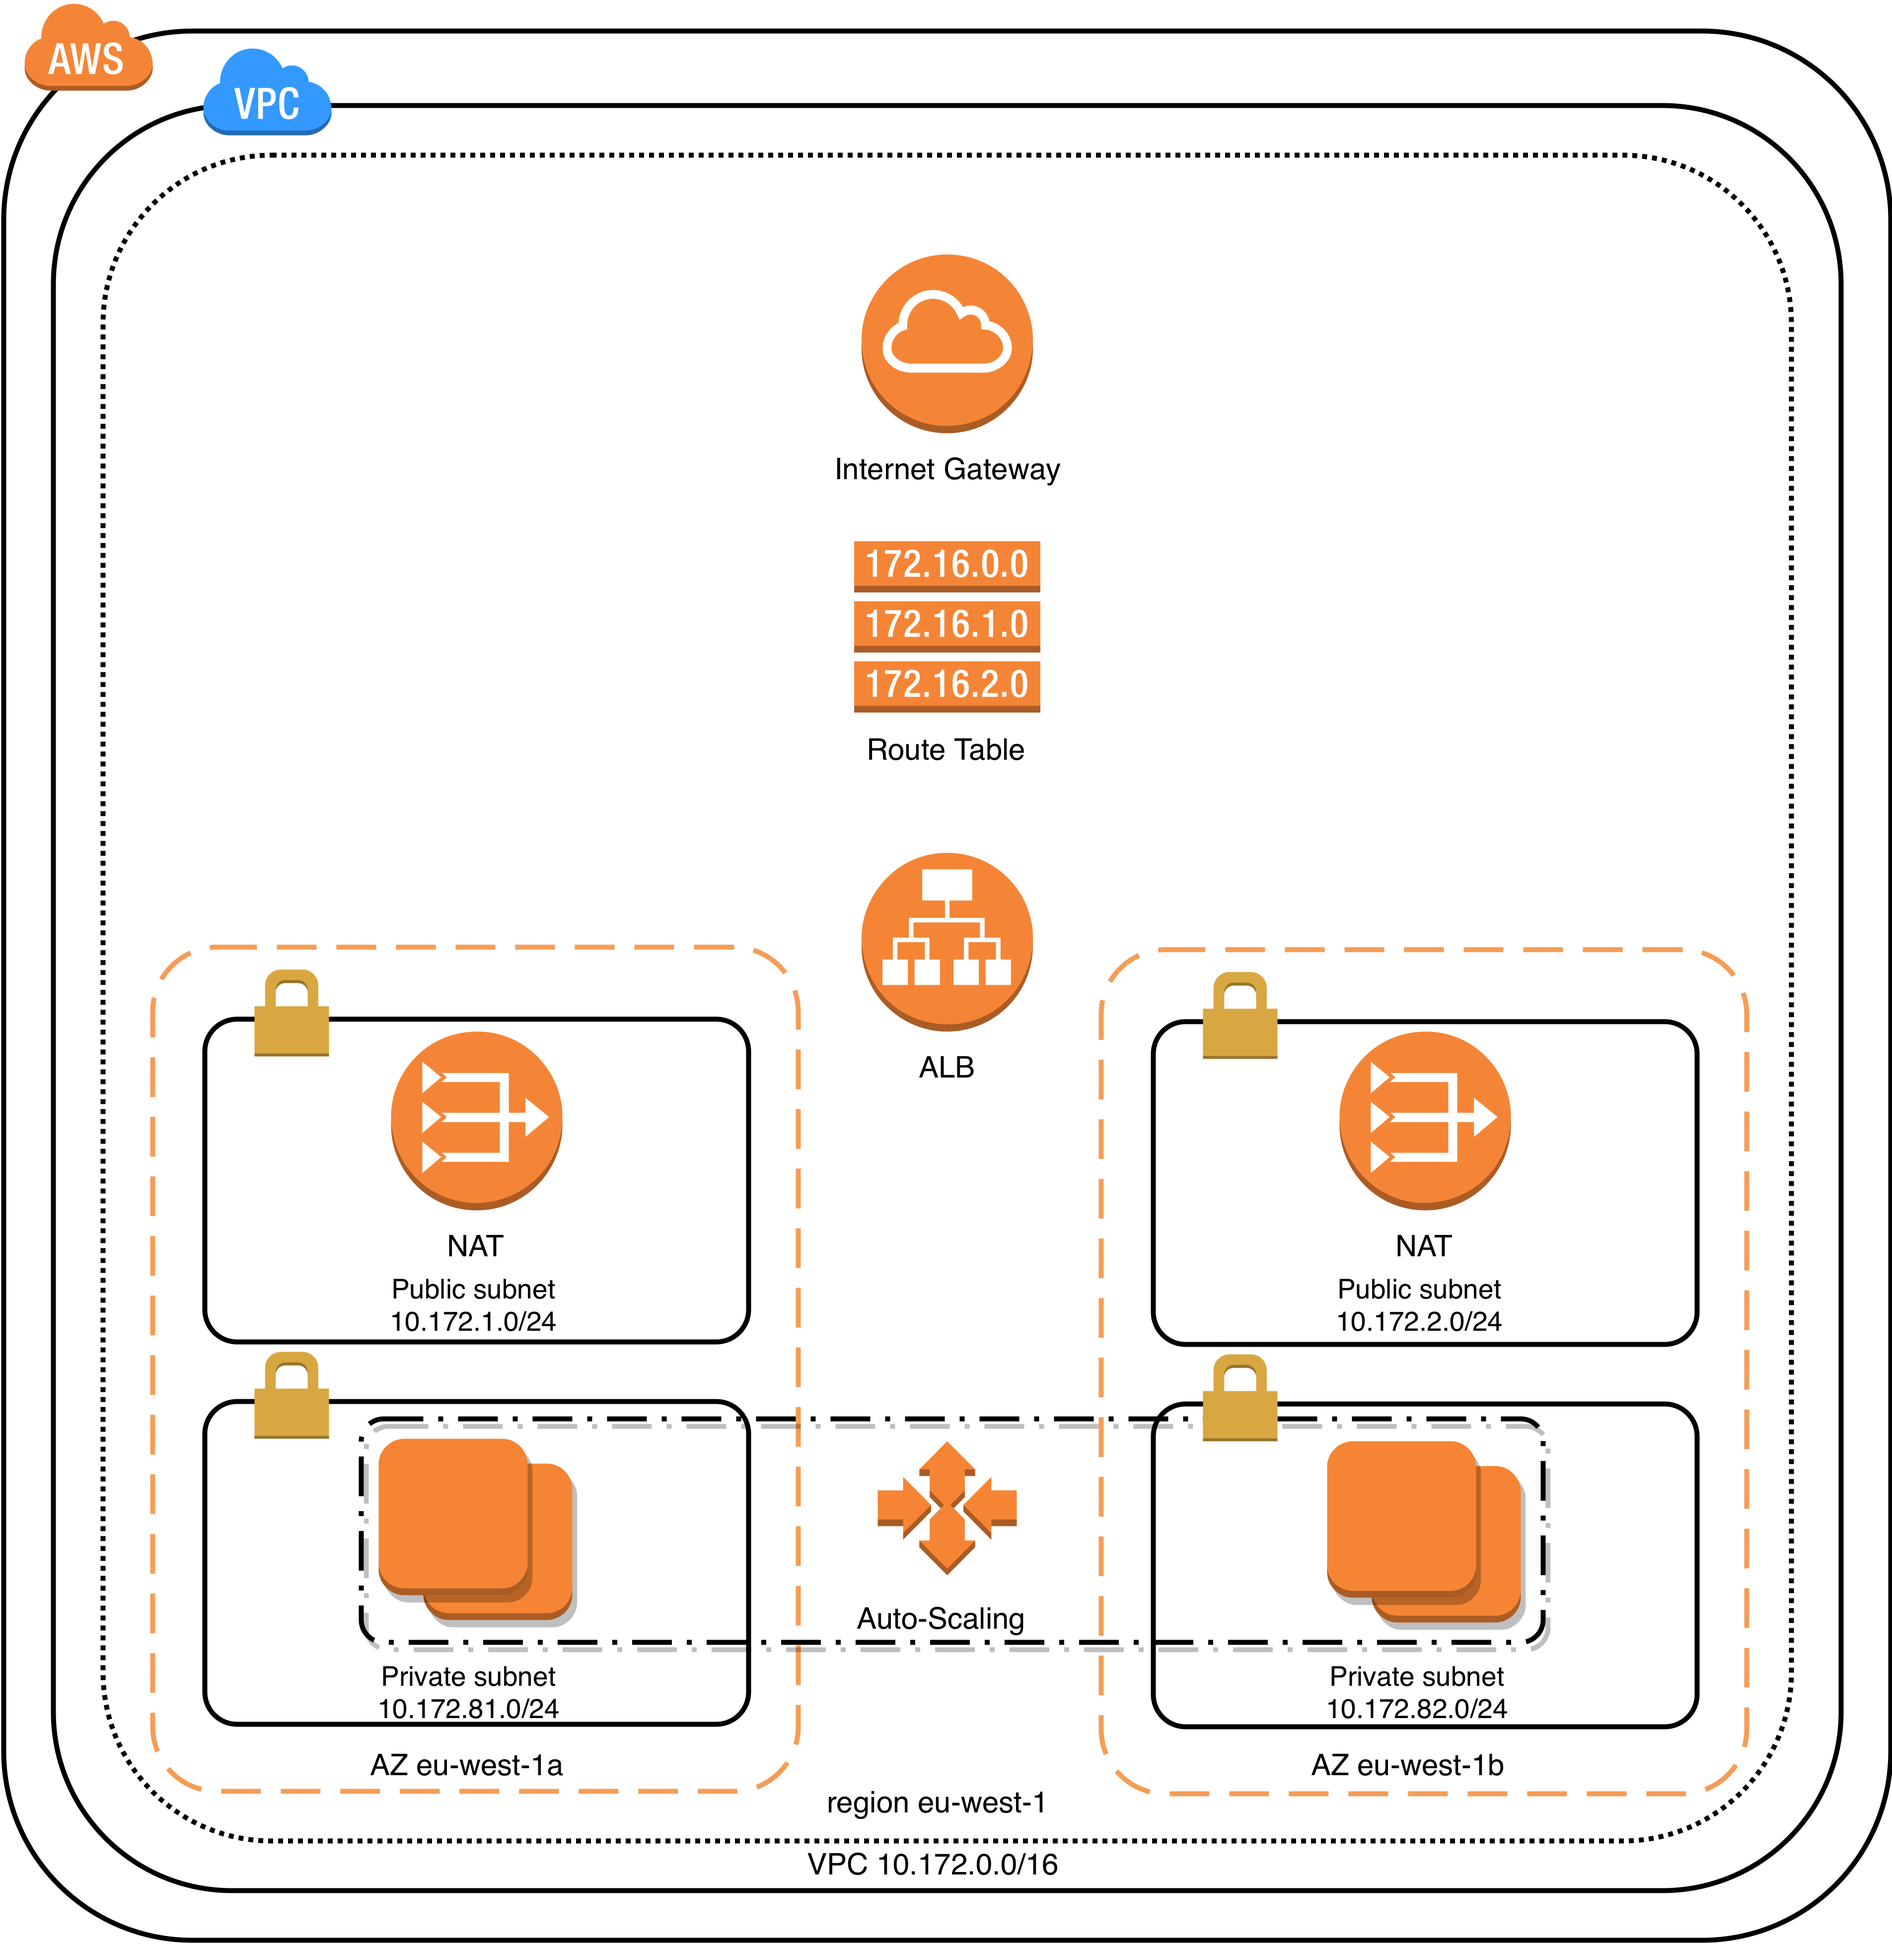
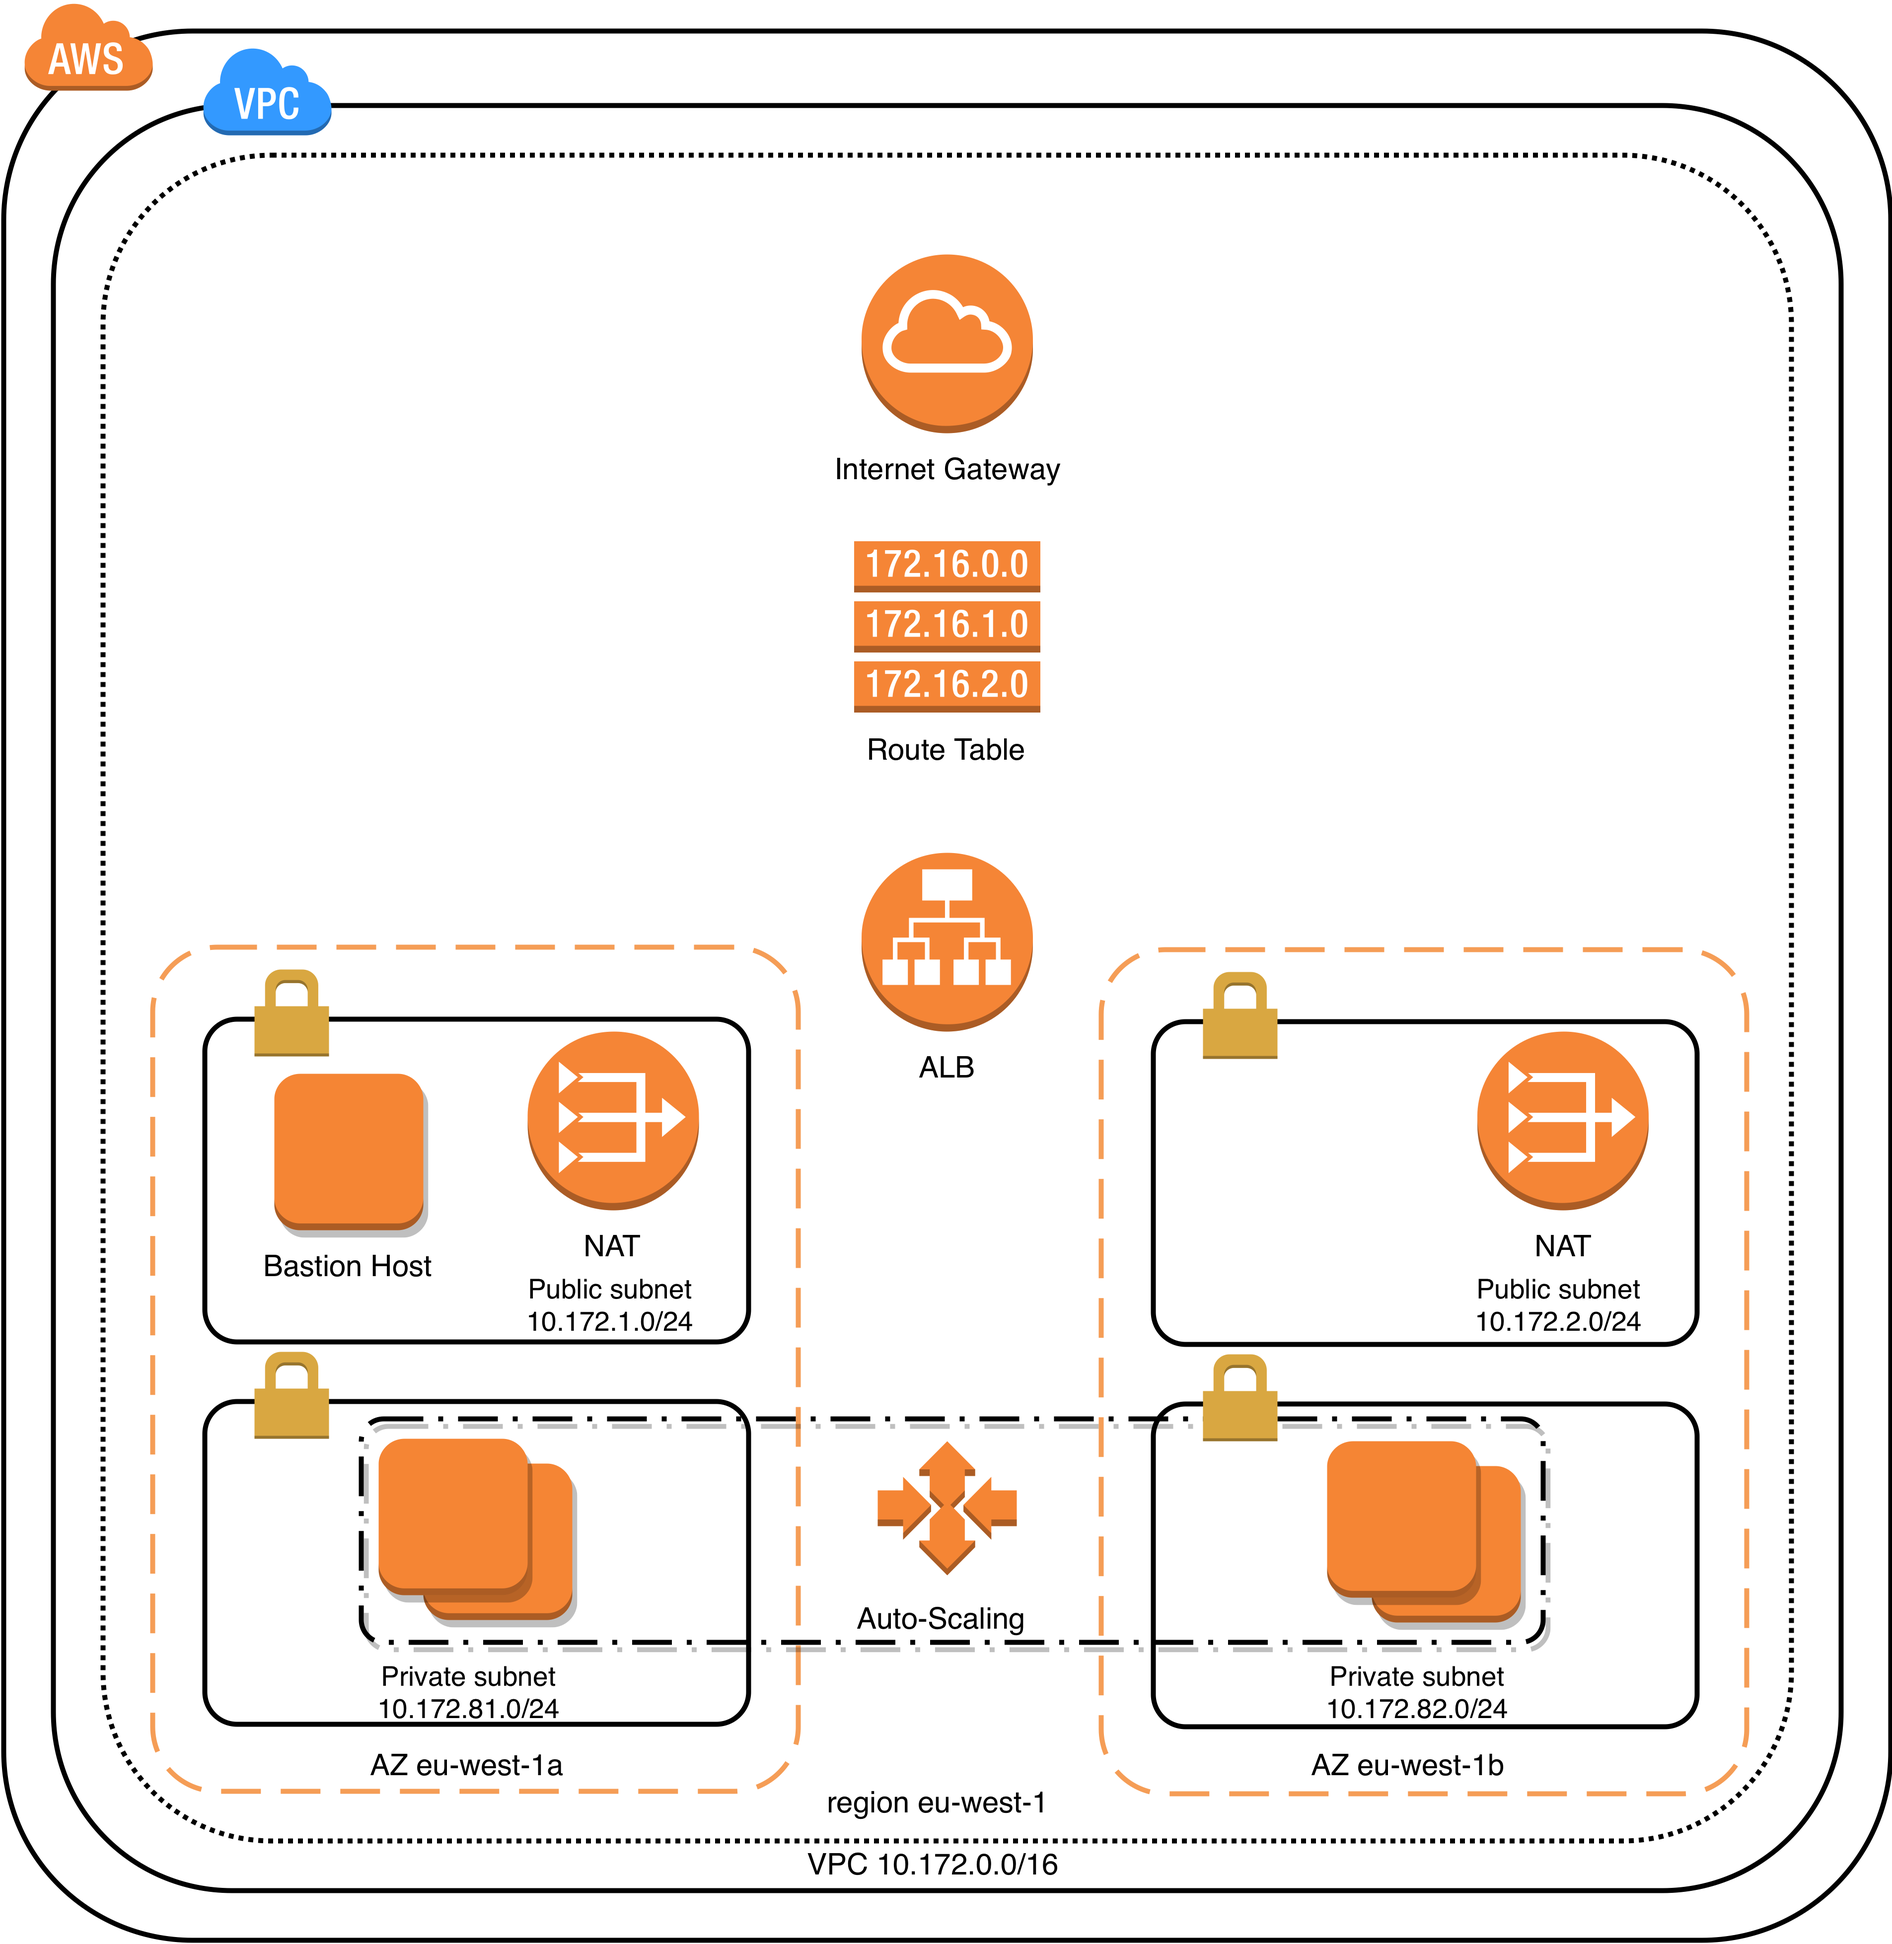
added testing the access

Changed region(s): [[0.1249, 0.5298, 0.3748, 0.6856], [0.6871, 0.5298, 0.8745, 0.6856]]

diff --git a/README.md b/README.md
@@ -173,11 +173,40 @@ Apply complete! Resources: 32 added, 0 changed, 0 destroyed.
 
 Outputs:
 
-ALB DNS Name = default-1781065290.eu-west-1.elb.amazonaws.com
-Bastion DNS Name = ec2-34-247-176-235.eu-west-1.compute.amazonaws.com
+ALB DNS Name = default-397873677.eu-west-1.elb.amazonaws.com
+Bastion DNS Name = ec2-34-247-38-196.eu-west-1.compute.amazonaws.com
+```
 
+**Test web access**
 
-# destroy the environment
+![Website](img/website.png)
+
+**Access the instances**
+
+```
+# ssh to bastion host
+❯ ssh -i aws_fake_key ubuntu@ec2-34-247-38-196.eu-west-1.compute.amazonaws.com
+Are you sure you want to continue connecting (yes/no)? yes
+ubuntu@ip-10-172-1-73:~$
+
+# ssh to the instance
+❯ ssh -A ubuntu@ec2-34-247-38-196.eu-west-1.compute.amazonaws.com
+ubuntu@ip-10-172-1-73:~$ ssh ec2-user@10.172.82.192
+Warning: Permanently added '10.172.82.192' (ECDSA) to the list of known hosts.
+
+       __|  __|_  )
+       _|  (     /   Amazon Linux AMI
+      ___|\___|___|
+
+https://aws.amazon.com/amazon-linux-ami/2018.03-release-notes/
+[ec2-user@ip-10-172-82-192 ~]$ service nginx status
+nginx (pid 2625 2622) is running...
+[ec2-user@ip-10-172-82-192 ~]$
+```
+
+**Destroy the environment**
+
+```
 ❯ terraform destroy -var-file=aws-demo.tfvars
 -- snip --
 Destroy complete! Resources: 32 destroyed.
